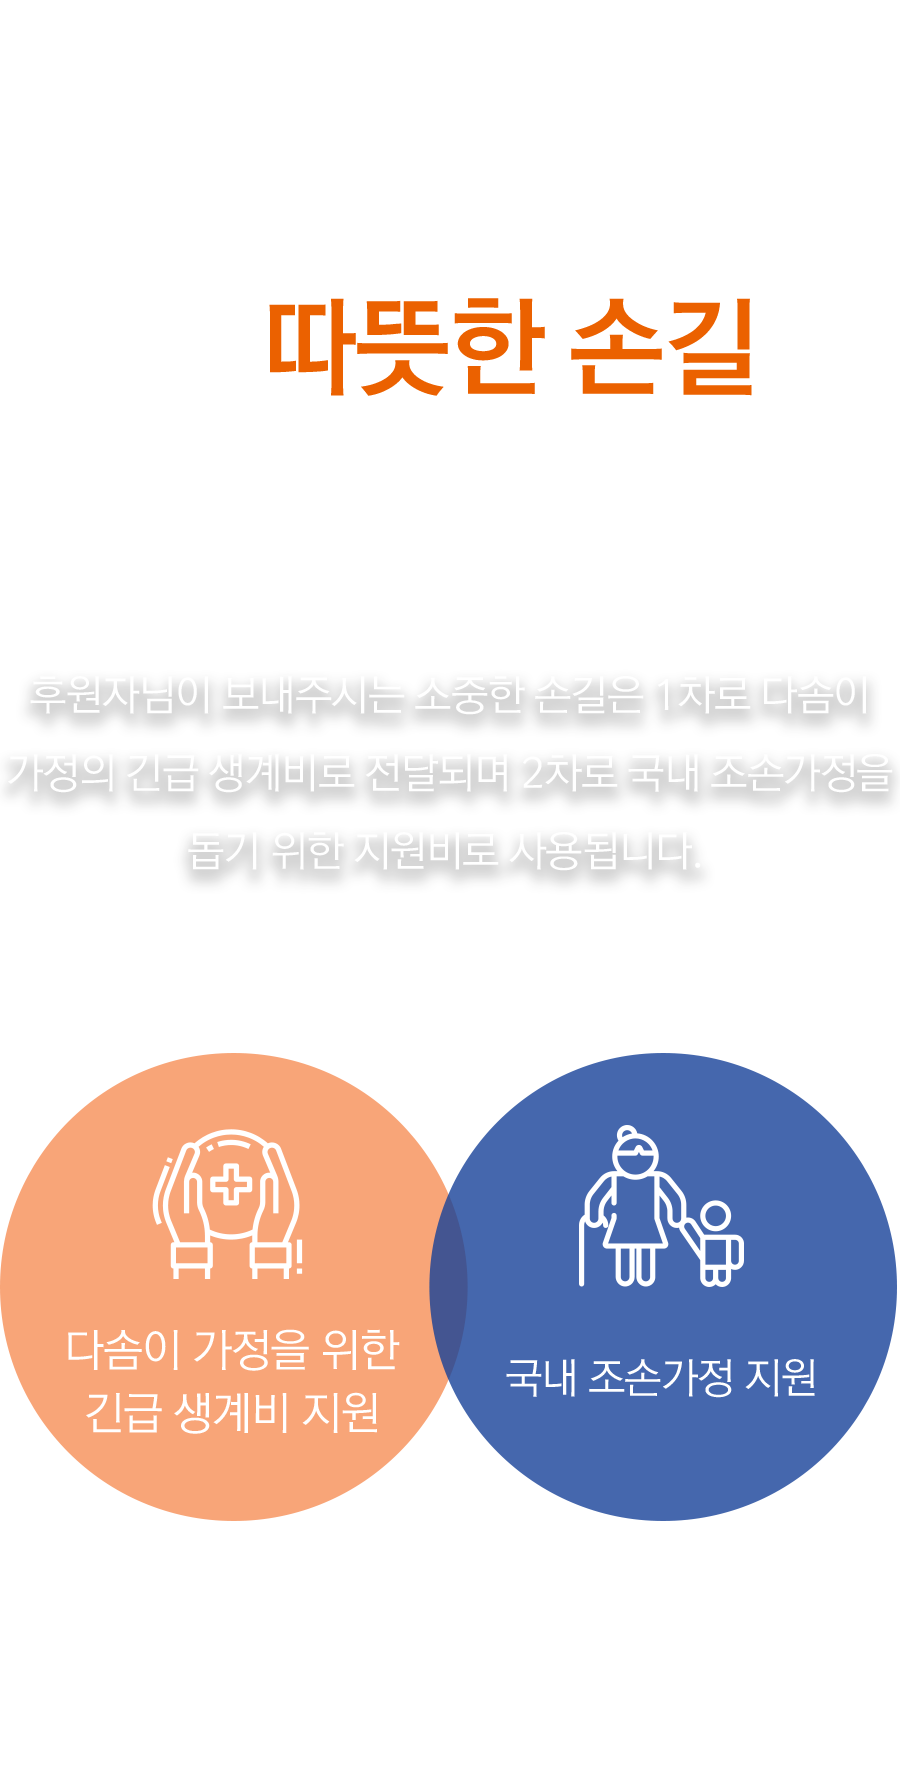
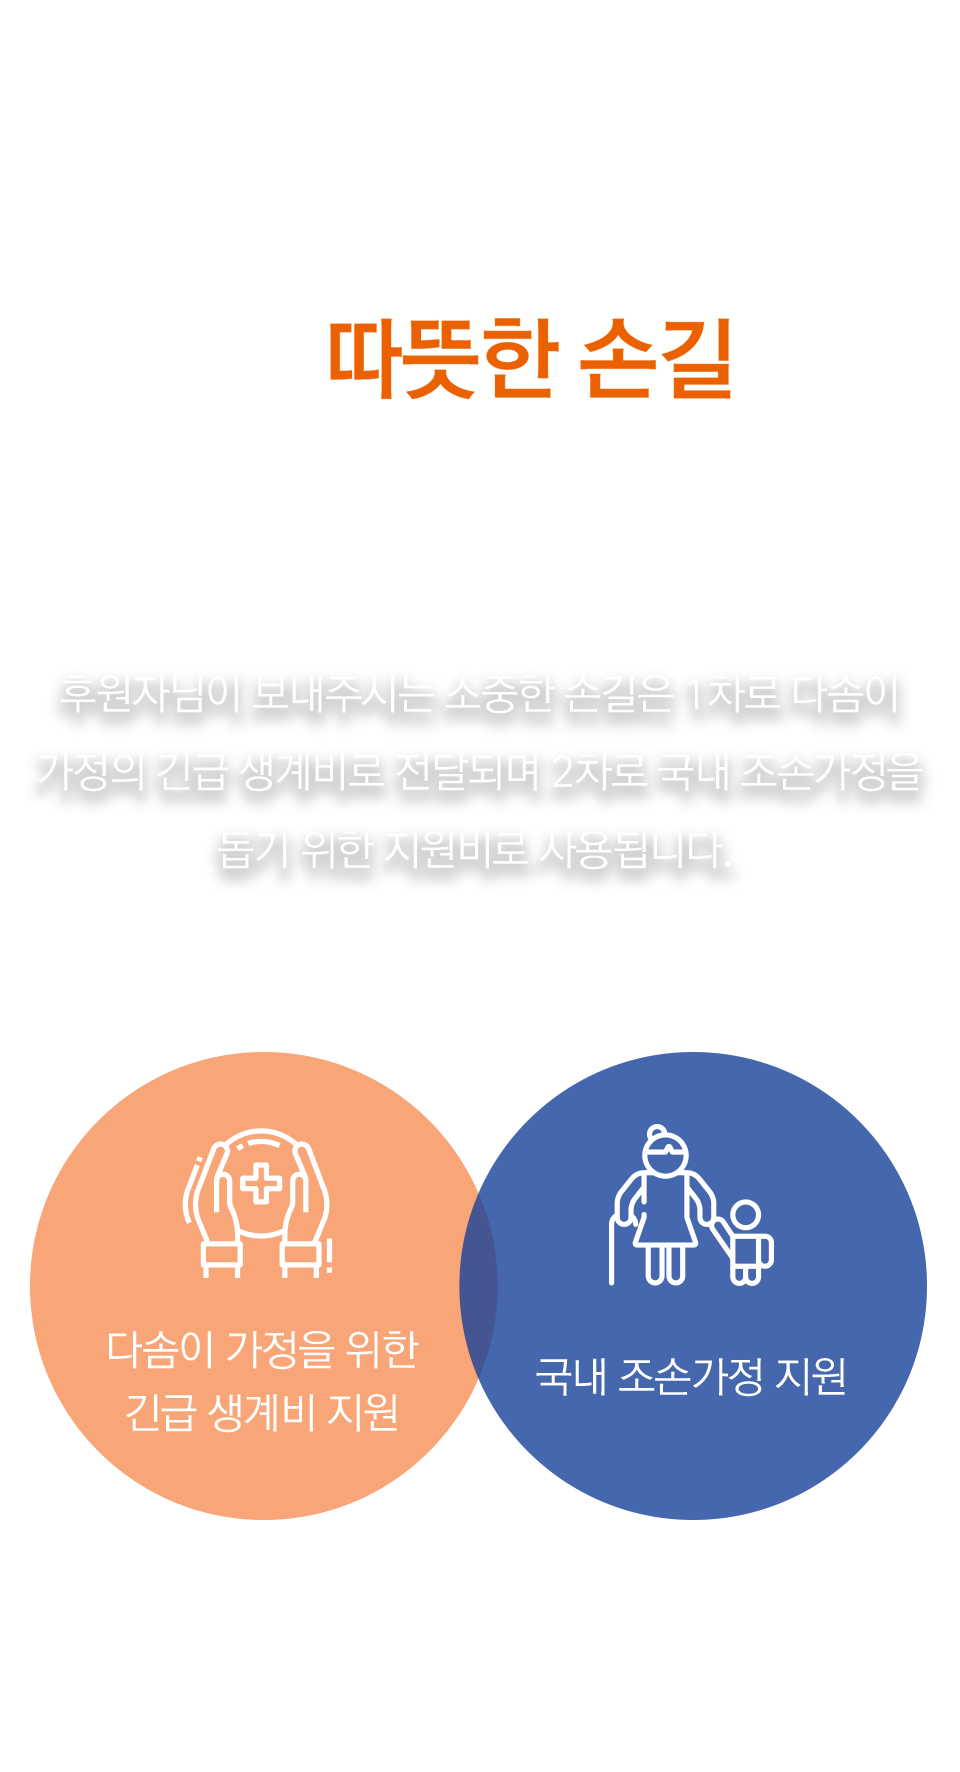
굿피플 캠페인 수정 완료.

diff --git a/assets/css/landing.css b/assets/css/landing.css
@@ -372,7 +372,20 @@ a {
   margin: 0; }
   .campaign-201808 .img-fluid {
     display: block;
-    margin: 0 auto; }
+    margin: 0 auto;
+    width: 70%; }
+    @media (min-width: 1200px) {
+      .campaign-201808 .img-fluid {
+        width: auto; } }
+  .campaign-201808 .align-left {
+    padding-left: 10%; }
+    .campaign-201808 .align-left .img-fluid {
+      margin-left: 0; }
+    @media (min-width: 1200px) {
+      .campaign-201808 .align-left {
+        padding-left: 0; }
+        .campaign-201808 .align-left .img-fluid {
+          margin-left: auto; } }
   .campaign-201808 .logo {
     position: absolute;
     top: 10px;
@@ -394,6 +407,7 @@ a {
     background-size: 100% 100%;
     background-position: 0 50%; }
     .campaign-201808 > article.content01 {
+      padding-top: 5%;
       background-image: url(/assets/images/landing/bg_xs_campaign01.jpg); }
     .campaign-201808 > article.content02 {
       background-image: url(/assets/images/landing/bg_xs_campaign02.jpg); }
@@ -415,7 +429,7 @@ a {
         .campaign-201808 > article .video {
           width: 930px; } }
     .campaign-201808 > article .btn-area {
-      padding-bottom: 30%; }
+      padding-bottom: 20%; }
       .campaign-201808 > article .btn-area .btn {
         display: block;
         padding: 0;
@@ -433,6 +447,7 @@ a {
           opacity: .7; }
       @media (min-width: 1200px) {
         .campaign-201808 > article .btn-area {
+          padding-bottom: 100px !important;
           text-align: center; }
           .campaign-201808 > article .btn-area .btn {
             display: inline-block; }
@@ -443,6 +458,7 @@ a {
       .campaign-201808 > article {
         background-size: auto 100%; }
         .campaign-201808 > article.content01 {
+          padding-top: 0;
           background-image: url(/assets/images/landing/bg_xl_campaign01.jpg); }
         .campaign-201808 > article.content02 {
           background-image: url(/assets/images/landing/bg_xl_campaign02.jpg); }
@@ -463,8 +479,8 @@ a {
     z-index: 1; }
     .campaign-201808 .sponsor-btn a {
       display: block;
-      width: 49px;
-      height: 49px;
+      width: 40px;
+      height: 40px;
       border-radius: 50%;
       box-shadow: 2px 3px 4.8px 1.2px rgba(0, 0, 0, 0.15); }
       .campaign-201808 .sponsor-btn a img {

diff --git a/assets/css/landing.scss b/assets/css/landing.scss
@@ -18,6 +18,22 @@
     .img-fluid {
         display: block;
         margin: 0 auto;
+        width: 70%;
+        @media(min-width: $xl) {
+            width: auto;
+        }
+    }
+    .align-left {
+        padding-left: 10%;
+        .img-fluid {
+            margin-left: 0;
+        }
+        @media(min-width: $xl) {
+            padding-left: 0;
+            .img-fluid {
+                margin-left: auto;
+            }
+        }
     }
     .logo {
         position: absolute;
@@ -43,6 +59,7 @@
         background-size: 100% 100%;
         background-position: 0 50%;
         &.content01 {
+            padding-top: 5%;
             background-image: url(/assets/images/landing/bg_xs_campaign01.jpg);
         }
         &.content02 {
@@ -72,7 +89,7 @@
             }
         }
         .btn-area {
-            padding-bottom: 30%;
+            padding-bottom: 20%;
             .btn {
                 display: block;
                 padding: 0;
@@ -85,6 +102,7 @@
                 }
             }
             @media(min-width: $xl) {
+                padding-bottom: 100px !important;
                 text-align: center;
                 .btn {
                     display: inline-block;
@@ -98,6 +116,7 @@
         @media(min-width: $xl) {
             background-size: auto 100%;
             &.content01 {
+                padding-top: 0;
                 background-image: url(/assets/images/landing/bg_xl_campaign01.jpg);
             }
             &.content02 {
@@ -128,8 +147,8 @@
         z-index: 1;
         a {
             display: block;
-            width: 49px;
-            height: 49px;
+            width: 40px;
+            height: 40px;
             border-radius: 50%;
             box-shadow: 2px 3px 4.8px 1.2px rgba(0, 0, 0, 0.15);
             img {

diff --git a/landing/180816/index.php b/landing/180816/index.php
@@ -20,7 +20,7 @@
                         <iframe src="https://www.youtube.com/embed/dHydw9N_1cY" allowfullscreen></iframe>
                     </div>
    				</div>
-   		        <p>
+   		        <p class="align-left">
    		            <img src="/assets/images/landing/img_xs_content02.png" class="img-fluid d-xl-none" alt="">
    		            <img src="/assets/images/landing/img_xl_content02.png" class="img-fluid d-none d-xl-block" alt="">
    		        </p>
@@ -52,7 +52,7 @@
    		</article>
    		<article class="content05">
    		    <div class="container">
-   		        <p>
+   		        <p class="align-left">
    		            <img src="/assets/images/landing/img_xs_content06.png" class="img-fluid d-xl-none" alt="">
    		            <img src="/assets/images/landing/img_xl_content06.png" class="img-fluid d-none d-xl-block" alt="">
    		        </p>
